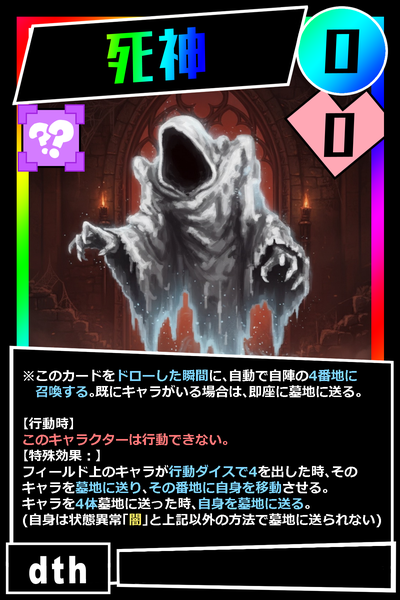
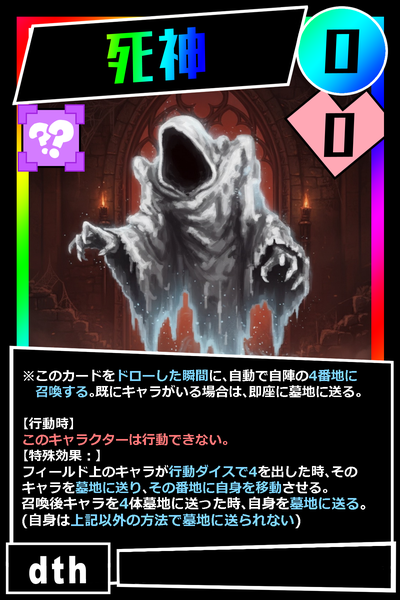
ver4.2.1

Changed region(s): [[0.06, 0.81, 0.96, 0.9]]

diff --git a/index.html b/index.html
@@ -26,7 +26,7 @@
         </div>
         <div class="title">HOME</div>
     </header>
-    <h2>うちのこカードゲーム Ver 4.2.0</h2>
+    <h2>うちのこカードゲーム Ver 4.2.1</h2>
     <h1>概要</h1>
     <p>妖怪鯖の身内で制作したゆるーいカードゲームみたいなものです</p>
     <h3>現在、カード案募集中です！</h3>
@@ -38,7 +38,7 @@
         ぜひぜひ参加よろしくお願いいたします！
     </p>
     <p>
-        サーバーへの参加リンクは<a href="https://discord.gg/sXmVTeb5b">ココをクリック！</a>
+        サーバーへの参加リンクは<a href="https://discord.gg/Z85aPza7">ココをクリック！</a>
     </p>
     <p>また、本企画に参加する前に、<b>下にある注意事項に必ず目を通していただきますようお願いいたします。</b></p>
 
@@ -47,7 +47,17 @@
     <h1>更新情報！</h1>
 
     <p>
-        <iro style="color: blue;">2025/03/30 16:11</iro><br>
+        <iro style="color: blue;">2026/04/10 23:46</iro><br>
+        既存のカード5枚を修正しました！
+    </p>
+
+    <p>
+        <iro style="color: blue;">2026/04/10 23:46</iro><br>
+        <iro style="color: red;">新規カード</iro>を8枚追加しました！<a href="https://mitek37.github.io/card_battle/index_newcard.html">詳しくはコチラ！</a>
+    </p>
+
+    <p>
+        <iro style="color: blue;">2026/03/30 16:11</iro><br>
         <iro style="color: red;">新規カード</iro>を16枚追加しました！<a href="https://mitek37.github.io/card_battle/index_newcard.html">詳しくはコチラ！</a>
     </p>
 
@@ -59,11 +69,6 @@
     <p>
         <iro style="color: blue;">2026/03/16 15:46</iro><br>
         各種ジェネレータとバフデバフ画像素材を更新しました！<a href="https://mitek37.github.io/card_battle/index_down.html">DLはコチラからどうぞ！</a>
-    </p>
-
-    <p>
-        <iro style="color: blue;">2026/03/30 14:52</iro><br>
-        新カテゴリー「799番地」を実装しました！
     </p>
 
     <h1>注意事項(必読)</h1>
